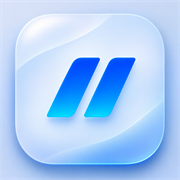
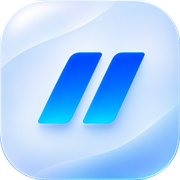
Polish controls, exercise media, library, and onyx theme

diff --git a/app.js b/app.js
@@ -2,11 +2,11 @@
   'use strict';
 
   const STORAGE_KEY = 'train-log-state-v1';
-  const VERSION = '3.8.4';
+  const VERSION = '3.8.5';
   const DB_NAME = 'train-log-indexeddb';
   const DB_VERSION = 1;
   const DB_STORES = ['workouts','exercises','plans','body_metrics','settings','backup_meta'];
-  const THEMES=[['classic','经典蓝','#0B72FE'],['teal','青绿','#018A8D'],['purple','紫色','#7149C2'],['coral','珊瑚橙','#D2653F']];
+  const THEMES=[['classic','经典蓝','#0B72FE'],['teal','青绿','#018A8D'],['purple','紫色','#7149C2'],['coral','珊瑚橙','#D2653F'],['onyx','星耀黑','#171B24']];
 
   const EXERCISES = [
     {id:'bench_press',name:'杠铃卧推',group:'胸',equipment:'杠铃',muscles:['胸','三头','肩'],primary:'胸大肌',secondary:'肱三头肌、三角肌前束',tips:['肩胛骨向后下方收紧并稳定贴住凳面','双脚踩稳地面，保持躯干稳定','杠铃下降至胸部附近后平稳推起，不要弹胸'],mistakes:['肩膀前顶、肩胛失去稳定','手腕过度后折','为了重量牺牲下放控制'],rest:'2–3 分钟'},
@@ -464,11 +464,15 @@
   const modalBody = document.getElementById('modal-body');
   const modalSheet = modal.querySelector('.modal-sheet');
   const toastEl = document.getElementById('toast');
+  document.addEventListener('pointerdown',event=>{
+    if(!event.target.closest('.stats-menu-wrap')){const menu=modalBody.querySelector('#report-metric-menu');if(menu&&!menu.hidden){menu.hidden=true;modalBody.querySelector('#report-metric-trigger')?.setAttribute('aria-expanded','false');}}
+    if(!event.target.closest('.trend-select')){const menu=main.querySelector('.trend-menu');if(menu&&!menu.hidden){menu.hidden=true;main.querySelector('[data-cycle-body-trend]')?.setAttribute('aria-expanded','false');}}
+  });
 
   function uid(){ return (crypto.randomUUID ? crypto.randomUUID() : `${Date.now()}-${Math.random().toString(16).slice(2)}`); }
   function today(){ return new Date().toISOString().slice(0,10); }
   function esc(v=''){ return String(v).replace(/[&<>'"]/g, c => ({'&':'&amp;','<':'&lt;','>':'&gt;',"'":'&#39;','"':'&quot;'}[c])); }
-  function applyTheme(){const theme=THEMES.some(([id])=>id===state.settings?.theme)?state.settings.theme:'classic';document.documentElement.dataset.theme=theme;document.querySelector('meta[name="theme-color"]')?.setAttribute('content',({classic:'#e8f3ff',teal:'#e9f8f5',purple:'#f3effb',coral:'#fff2eb'})[theme]);}
+  function applyTheme(){const theme=THEMES.some(([id])=>id===state.settings?.theme)?state.settings.theme:'classic';document.documentElement.dataset.theme=theme;document.querySelector('meta[name="theme-color"]')?.setAttribute('content',({classic:'#e8f3ff',teal:'#e9f8f5',purple:'#f3effb',coral:'#fff2eb',onyx:'#171b24'})[theme]);}
   function themeSettingsHTML(){return `<section class="section"><div class="card"><div class="section-title">主题颜色</div><div class="theme-grid">${THEMES.map(([id,label,color])=>`<button class="theme-choice ${state.settings.theme===id?'active':''}" data-theme-option="${id}" aria-pressed="${state.settings.theme===id}"><i style="--swatch:${color}"></i><span>${label}</span></button>`).join('')}</div></div></section>`;}
   function clamp(v,min,max){ return Math.max(min,Math.min(max,v)); }
   function num(v){ const n=parseFloat(v); return Number.isFinite(n)?n:null; }
@@ -936,7 +940,7 @@
     if(period==='day'){const blanks=Array.from({length:offset},()=>'<span></span>').join(''),days=Array.from({length:last},(_,i)=>{const key=localDateKey(new Date(year,month,i+1));return `<button type="button" ${available.has(key)?`data-report-choice="${key}"`:'disabled'} class="${key===selected?'active':''}">${i+1}</button>`;}).join('');return `<div class="stats-picker-panel">${controls}${weekdays}<div class="stats-picker-grid days">${blanks}${days}</div></div>`;}
     const firstMonday=startOfWeek(first),weeks=[],trainedDates=new Set(state.workouts.filter(w=>w.endedAt).map(w=>localDateKey(w.endedAt)));for(let i=0;i<6;i++){const monday=new Date(firstMonday);monday.setDate(monday.getDate()+i*7);if(monday>=new Date(year,month+1,1))break;const key=localDateKey(monday),sunday=new Date(monday);sunday.setDate(sunday.getDate()+6);weeks.push(`<button type="button" class="stats-week-option ${key===selected?'active':''}" ${available.has(key)?`data-report-choice="${key}"`:'disabled'}><span>${monday.getMonth()+1}/${monday.getDate()}—${sunday.getMonth()+1}/${sunday.getDate()}</span><span class="stats-week-dots">${Array.from({length:7},(_,d)=>{const date=new Date(monday);date.setDate(date.getDate()+d);return `<i class="${trainedDates.has(localDateKey(date))?'trained':''}"></i>`;}).join('')}</span></button>`);}return `<div class="stats-picker-panel">${controls}${weekdays}<div class="stats-week-list">${weeks.join('')}</div></div>`;
   }
-  function reportBodyHTML(r){const fields=[['height','身高','cm'],['bodyFat','体脂率','%'],['skeletalMuscle','骨骼肌','kg'],['waist','腰围','cm']],all=[...state.bodyMetrics].filter(m=>m.date).sort((a,b)=>new Date(a.date)-new Date(b.date));return `<section class="stats-body-card"><h3>身体变化</h3>${fields.map(([key,label,unit])=>{const before=all.filter(m=>new Date(`${m.date}T12:00:00`)<r.start&&num(m[key])!==null).at(-1),within=all.filter(m=>{const d=new Date(`${m.date}T12:00:00`);return d>=r.start&&d<=r.end&&num(m[key])!==null;}),points=within.length?[...(before?[before]:[]),...within]:[],first=points[0],last=points.at(-1),values=points.map(p=>Number(p[key])),min=Math.min(...values),max=Math.max(...values),spark=values.length>1?`<svg viewBox="0 0 90 28" aria-label="${label}趋势"><polyline points="${values.map((v,i)=>`${3+i*84/(values.length-1)},${24-(v-min)/Math.max(1,max-min)*20}`).join(' ')}"/></svg>`:'',display=last?`${first&&first!==last?`${num(first[key])} → `:''}${num(last[key])} ${unit}`:key==='height'&&num(state.profile.height)!==null?`档案 ${num(state.profile.height)} ${unit}`:'暂无记录';return `<div class="stats-body-row"><div><span>${label}</span><small>${within.length} 次记录</small></div>${spark}<strong>${display}</strong></div>`;}).join('')}</section>`;}
+  function reportBodyHTML(r){const fields=[['weight','体重','kg'],['bodyFat','体脂率','%'],['skeletalMuscle','骨骼肌','kg'],['waist','腰围','cm']],all=[...state.bodyMetrics].filter(m=>m.date).sort((a,b)=>new Date(a.date)-new Date(b.date));return `<section class="stats-body-card"><h3>身体变化</h3>${fields.map(([key,label,unit])=>{const before=all.filter(m=>new Date(`${m.date}T12:00:00`)<r.start&&num(m[key])!==null).at(-1),within=all.filter(m=>{const d=new Date(`${m.date}T12:00:00`);return d>=r.start&&d<=r.end&&num(m[key])!==null;}),points=within.length?[...(before?[before]:[]),...within]:[],first=points[0],last=points.at(-1),values=points.map(p=>Number(p[key])),min=Math.min(...values),max=Math.max(...values),spark=values.length>1?`<svg viewBox="0 0 90 28" aria-label="${label}趋势"><polyline points="${values.map((v,i)=>`${3+i*84/(values.length-1)},${24-(v-min)/Math.max(1,max-min)*20}`).join(' ')}"/></svg>`:'',display=last?`${first&&first!==last?`${num(first[key])} → `:''}${num(last[key])} ${unit}`:key==='height'&&num(state.profile.height)!==null?`档案 ${num(state.profile.height)} ${unit}`:'暂无记录';return `<div class="stats-body-row"><div><span>${label}</span><small>${within.length} 次记录</small></div>${spark}<strong>${display}</strong></div>`;}).join('')}</section>`;}
   function reportPerformanceHTML(r){const prefix={day:'本日',week:'本周',month:'本月',year:'本年'}[r.period],top=r.topExercise?exercise(r.topExercise[0]):null;return `<section class="stats-performance-card"><h3>动作表现</h3><div class="stats-performance-top"><span>${prefix}训练最多</span>${top?`<div class="stats-performance-thumb">${exerciseVisual(top)}</div><strong>${esc(top.name)} ${r.topExercise[1]} 次</strong>`:'<strong>暂无训练</strong>'}</div><div class="stats-performance-subtitle">${prefix}进步训练</div>${r.progress.length?r.progress.map(x=>`<div class="stats-performance-row"><div class="stats-performance-thumb">${exerciseVisual(exercise(x.id))}</div><div><strong>${esc(x.name)}</strong><small>${x.from} → ${x.to} kg</small></div><b>+${x.pct}%</b></div>`).join(''):'<div class="report-empty">当前周期还没有可比较的力量进步</div>'}<div class="stats-record-title"><span>新纪录</span><strong>${r.records.length} 项</strong></div>${r.records.slice(0,4).map(x=>`<div class="stats-performance-row"><div class="stats-performance-thumb">${exerciseVisual(exercise(x.id))}</div><div><strong>${esc(x.name)}</strong><small>${x.before?`${x.before} → `:''}${x.inside} kg</small></div><b>新高</b></div>`).join('')}</section>`;}
   let reportMappingsPromise=null;
   async function renderStatsMuscles(r,host){if(!host)return;if(!r.history.length){host.innerHTML='<div class="report-empty">该周期暂无训练，暂不能生成肌群分布</div>';return;}try{
@@ -978,6 +982,8 @@
   }
 
   function renderActiveWorkout(){
+    const retained=new Map([...main.querySelectorAll('.training-exercise')].map(section=>[`${section.dataset.exIndex}:${section.querySelector('img.gym-gif')?.dataset.gymId}`,section.querySelector('img.gym-gif')]).filter(([,img])=>img));
+    retained.forEach(img=>{gymVisibilityObserver?.unobserve(img);if(img._gymSuspendTimer){clearTimeout(img._gymSuspendTimer);img._gymSuspendTimer=null;}});
     const w=state.activeWorkout; const elapsed=Date.now()-new Date(w.startedAt).getTime();
     main.innerHTML=`
       <div class="workout-head">
@@ -988,7 +994,9 @@
       <button class="primary-btn" id="finish-workout-btn">完成训练</button>
       ${restRemaining>0?timerHTML():''}
     `;
+    main.querySelectorAll('.training-exercise').forEach(section=>{const fresh=section.querySelector('img.gym-gif'),old=fresh&&retained.get(`${section.dataset.exIndex}:${fresh.dataset.gymId}`);if(!old)return;fresh.replaceWith(old);const shell=old.closest('.gym-media-shell');if(old.complete&&old.naturalWidth)shell?.classList.add('loaded');if(old.dataset.hydrated)gymVisibilityObserver?.observe(old);});
     bindActiveWorkout();
+    requestAnimationFrame(()=>hydrateGymVisuals(main));
     clearInterval(timerInterval); timerInterval=setInterval(()=>{ const el=document.getElementById('elapsed'); if(el)el.textContent=durationText(Date.now()-new Date(w.startedAt).getTime()); },30000);
   }
 
@@ -1149,14 +1157,15 @@
   function exerciseLibraryHTML(searchQuery=''){
     const q=searchQuery.trim().toLowerCase();
     const list=allExercises().filter(e=>(activeExerciseFilter==='全部'||e.group===activeExerciseFilter)&&e.name.toLowerCase().includes(q));
-    return `<div class="section"><div id="exercise-list" class="list">${list.map(exerciseListItem).join('')||'<div class="empty">没有找到这个动作</div>'}</div></div>`;
+    return `<div class="section"><div id="exercise-list" class="list">${groupedExerciseLibraryHTML(list)}</div></div>`;
   }
+  function groupedExerciseLibraryHTML(list){if(!list.length)return '<div class="empty">没有找到这个动作</div>';return EXERCISE_GROUPS.filter(g=>g!=='全部').map(g=>{const items=list.filter(e=>e.group===g);return items.length?`<div class="exercise-group-heading">${g==='胸'?'胸部':g==='背'?'背部':g==='肩'?'肩部':g==='腿'?'腿部':g==='臀'?'臀部':g==='腹'?'腹部':g==='二头'?'肱二头':g==='三头'?'肱三头':g} · ${items.length} 个动作</div>${items.map(exerciseListItem).join('')}`:'';}).join('');}
   function exerciseListItem(e){ return `<button class="list-item tutorial-card" style="width:100%;text-align:left" data-tutorial="${e.id}"><div class="muscle-icon visual">${exerciseVisual(e)}</div><div class="grow"><strong>${esc(e.name)}</strong><p>${esc(e.primary)} · ${esc(e.equipment)}${e.type==='cardio'?' · min':''}</p></div><span class="pill blue">讲解</span></button>`; }
   function bindExerciseLibrary(){
     document.querySelectorAll('[data-filter]').forEach(b=>b.onclick=e=>{e.preventDefault();e.stopPropagation();const chipScrollLeft=b.parentElement.scrollLeft;const searchQuery=document.getElementById('exercise-search')?.value||'';activeExerciseFilter=b.dataset.filter;renderExercisesPage(chipScrollLeft,searchQuery);});
     document.querySelectorAll('[data-tutorial]').forEach(b=>b.onclick=()=>showTutorial(b.dataset.tutorial));
     const list=document.getElementById('exercise-list');hydrateGymVisuals(list);
-    const s=document.getElementById('exercise-search'); if(s)s.oninput=()=>{ const q=s.value.trim().toLowerCase(); list.innerHTML=allExercises().filter(e=>(activeExerciseFilter==='全部'||e.group===activeExerciseFilter)&&e.name.toLowerCase().includes(q)).map(exerciseListItem).join('')||'<div class="empty">没有找到这个动作</div>'; document.querySelectorAll('[data-tutorial]').forEach(b=>b.onclick=()=>showTutorial(b.dataset.tutorial)); hydrateGymVisuals(list); };
+    const s=document.getElementById('exercise-search'); if(s)s.oninput=()=>{ const q=s.value.trim().toLowerCase(); list.innerHTML=groupedExerciseLibraryHTML(allExercises().filter(e=>(activeExerciseFilter==='全部'||e.group===activeExerciseFilter)&&e.name.toLowerCase().includes(q))); document.querySelectorAll('[data-tutorial]').forEach(b=>b.onclick=()=>showTutorial(b.dataset.tutorial)); hydrateGymVisuals(list); };
   }
 
   function bindCommon(){
@@ -1606,11 +1615,11 @@
 
   function showBodyForm(id=null){
     const current=id?state.bodyMetrics.find(x=>x.id===id):null,value=(key)=>esc(current?.[key]??'');
-    openModal(current?'编辑身体记录':'记录身体数据',`<div class="form-grid"><div class="field full"><label>日期</label><input id="body-date" type="date" value="${current?.date||localDateKey()}"></div><div class="field"><label>体重 kg</label><input id="body-weight" type="number" inputmode="decimal" min="20" max="300" step="0.1" value="${value('weight')}"></div><div class="field"><label>体脂率 %</label><input id="body-fat" type="number" inputmode="decimal" min="1" max="70" step="0.1" value="${value('bodyFat')}"></div><div class="field"><label>身高 cm（可选）</label><input id="body-height" type="number" inputmode="decimal" min="100" max="230" step="0.1" value="${value('height')}"></div><div class="field"><label>腰围 cm</label><input id="body-waist" type="number" inputmode="decimal" min="30" max="250" step="0.1" value="${value('waist')}"></div><div class="field"><label>骨骼肌 kg</label><input id="body-muscle" type="number" inputmode="decimal" min="5" max="100" step="0.1" value="${value('skeletalMuscle')}"></div></div><div class="body-form-actions"><button class="primary-btn" id="save-body">保存记录</button>${current?'<button class="secondary-btn danger" id="delete-body">删除记录</button>':''}</div>`);
+    openModal(current?'编辑身体记录':'记录身体数据',`<div class="form-grid"><div class="field full"><label>日期</label><input id="body-date" type="date" value="${current?.date||localDateKey()}"></div><div class="field"><label>体重 kg</label><input id="body-weight" type="number" inputmode="decimal" min="20" max="300" step="0.1" value="${value('weight')}"></div><div class="field"><label>体脂率 %</label><input id="body-fat" type="number" inputmode="decimal" min="1" max="70" step="0.1" value="${value('bodyFat')}"></div><div class="field"><label>腰围 cm</label><input id="body-waist" type="number" inputmode="decimal" min="30" max="250" step="0.1" value="${value('waist')}"></div><div class="field"><label>骨骼肌 kg</label><input id="body-muscle" type="number" inputmode="decimal" min="5" max="100" step="0.1" value="${value('skeletalMuscle')}"></div></div><div class="body-form-actions"><button class="primary-btn" id="save-body">保存记录</button>${current?'<button class="secondary-btn danger" id="delete-body">删除记录</button>':''}</div>`);
     document.getElementById('save-body').onclick=()=>{
-      const date=document.getElementById('body-date').value||localDateKey(),weight=num(document.getElementById('body-weight').value),bodyFat=num(document.getElementById('body-fat').value),height=num(document.getElementById('body-height').value),waist=num(document.getElementById('body-waist').value),skeletalMuscle=num(document.getElementById('body-muscle').value);
-      if(weight===null&&bodyFat===null&&height===null&&waist===null&&skeletalMuscle===null){toast('至少填写一项身体数据');return;}
-      const row={...(current||{}),id:current?.id||uid(),date,weight,bodyFat,height,waist,skeletalMuscle};
+      const date=document.getElementById('body-date').value||localDateKey(),weight=num(document.getElementById('body-weight').value),bodyFat=num(document.getElementById('body-fat').value),waist=num(document.getElementById('body-waist').value),skeletalMuscle=num(document.getElementById('body-muscle').value);
+      if(weight===null&&bodyFat===null&&waist===null&&skeletalMuscle===null){toast('至少填写一项身体数据');return;}
+      const row={...(current||{}),id:current?.id||uid(),date,weight,bodyFat,waist,skeletalMuscle};
       state.bodyMetrics=current?state.bodyMetrics.map(x=>x.id===current.id?row:x):[...state.bodyMetrics,row];
       saveState();closeModal();render();toast(current?'身体记录已更新':'身体数据已记录');
     };

diff --git a/ui2.css b/ui2.css
@@ -286,3 +286,35 @@ body{background:
 .stats-performance-top,.stats-performance-row,.stats-record-title,.stats-body-row{display:flex;align-items:center;gap:10px;padding:11px 0;border-bottom:1px solid #e8edf6}.stats-performance-top>span{color:#73829a;font-size:12px}.stats-performance-top strong{margin-left:auto;text-align:right;font-size:13px}.stats-performance-thumb{width:43px;height:43px;flex:none;border-radius:10px;background:#fff;overflow:hidden}.stats-performance-thumb .gym-media-shell,.stats-performance-thumb .gym-gif{width:100%;height:100%}.stats-performance-subtitle{margin-top:15px;font-size:14px;font-weight:800}.stats-performance-row>div:nth-child(2){min-width:0;flex:1}.stats-performance-row strong,.stats-performance-row small{display:block;overflow:hidden;text-overflow:ellipsis;white-space:nowrap}.stats-performance-row strong{font-size:13px}.stats-performance-row small{margin-top:3px;color:#8190a5;font-size:11px}.stats-performance-row>b{color:#19a071;font-size:12px;white-space:nowrap}.stats-record-title{justify-content:space-between;margin-top:12px;font-size:14px;font-weight:750}.stats-record-title strong{color:var(--theme-primary);font-size:19px}.stats-body-row{justify-content:space-between}.stats-body-row:last-child{border-bottom:0}.stats-body-row>div{min-width:0;flex:1}.stats-body-row span,.stats-body-row small{display:block}.stats-body-row span{font-size:13px}.stats-body-row small{margin-top:3px;color:#8b98aa;font-size:10px}.stats-body-row strong{max-width:45%;font-size:12px;text-align:right;overflow-wrap:anywhere}.stats-body-row svg{width:70px;height:25px}.stats-body-row polyline{fill:none;stroke:var(--theme-primary);stroke-width:2}.stats-footnote{margin:0 9px;color:#7485a0;font-size:11px;line-height:1.5}
 @media(max-width:380px){.stats-tile{padding:11px}.stats-tile strong{font-size:19px}.stats-chart-legend strong{font-size:19px}.stats-title h1{font-size:25px}.stats-trend-card,.stats-muscle-card,.stats-performance-card,.stats-body-card{padding:14px}}
 @media(max-width:390px){.report-heading h1{font-size:24px}.workout-summary-card h2{font-size:12px;padding:6px 8px}.report-stat{font-size:11px}.report-stat strong{font-size:12px}}
+/* Consistent geometric chevrons avoid the low baseline of font glyphs on iOS. */
+.record-month-trigger i,.stats-menu-trigger>span,.trend-title>span,#report-picker-trigger>span:last-child{display:inline-block!important;width:7px!important;height:7px!important;min-width:7px;margin:0 2px 4px 2px!important;border-right:2px solid currentColor;border-bottom:2px solid currentColor;font-size:0!important;line-height:0!important;transform:rotate(45deg);vertical-align:middle;align-self:center}
+.record-month-trigger[aria-expanded="true"] i,#report-picker-trigger[aria-expanded="true"]>span:last-child{margin-top:7px!important;margin-bottom:0!important;transform:rotate(225deg)}
+.record-month-trigger,.stats-menu-trigger,.trend-title,#report-picker-trigger{align-items:center!important}
+.exercise-group-heading{padding:13px 4px 5px;color:var(--muted);font-size:14px;font-weight:750}.exercise-group-heading:first-child{padding-top:0}
+.theme-grid{grid-template-columns:repeat(3,minmax(0,1fr))}
+:root[data-theme="onyx"]{--bg:#11151d;--card:#202632;--text:#f2f4f8;--muted:#a2adbf;--line:#384354;--blue:#c7a96f;--blue-soft:#333124;--accent-surface:#222b37;--accent-surface-2:#26313e;--accent-surface-3:#303d4b;--accent-surface-4:#1d2632;--accent-surface-5:#202936;--accent-dark:#b99455;--accent-light:#ead49f;--shadow:0 10px 30px rgba(0,0,0,.23);--theme-primary:#d6b777;--theme-primary-strong:#b99455;--theme-primary-bright:#f2daa5;--theme-primary-soft:#343226;--theme-primary-border:#665a3f;--theme-primary-text:#ead49f;--theme-gradient-start:#a88140;--theme-gradient-end:#d5b77b;--theme-dark-start:#10141d;--theme-dark-end:#273447;--theme-chart-line:#d6b777;--theme-progress-fill:#d6b777;--theme-focus-ring:rgba(214,183,119,.2);--theme-canvas-tint:#27394f;--theme-canvas-tint-2:#161e29}
+:root[data-theme="onyx"] html,:root[data-theme="onyx"] body{background:#11151d;color:var(--text)}
+:root[data-theme="onyx"] body{background:radial-gradient(ellipse 90% 360px at 95% 0%,#2a3a4c,transparent),linear-gradient(180deg,#161e29 0,#11151d 440px)}
+:root[data-theme="onyx"] .topbar,:root[data-theme="onyx"] .page-intro{background-image:radial-gradient(ellipse 320px 300px at calc(50% + 285px) 190px,#293d52 0%,#182331 99.5%,transparent 100%),linear-gradient(180deg,#182331 0%,#161e29 440px,#11151d 100%);background-color:#161e29}
+:root[data-theme="onyx"] .topbar-title,:root[data-theme="onyx"] .page-intro .page-title,:root[data-theme="onyx"] .section-title,:root[data-theme="onyx"] .stats-report h3{color:#f4f5f8}
+:root[data-theme="onyx"] .topbar-subtitle,:root[data-theme="onyx"] .page-intro .page-subtitle{color:#adbacb}
+:root[data-theme="onyx"] .card,:root[data-theme="onyx"] .list-item,:root[data-theme="onyx"] .training-exercise,:root[data-theme="onyx"] .stats-tile,:root[data-theme="onyx"] .stats-trend-card,:root[data-theme="onyx"] .stats-muscle-card,:root[data-theme="onyx"] .stats-performance-card,:root[data-theme="onyx"] .stats-body-card{background:#202937;border-color:#394655;color:#f1f4f9}
+:root[data-theme="onyx"] .metric-card strong,:root[data-theme="onyx"] .stats-tile strong,:root[data-theme="onyx"] .list-item strong{color:#f5f6fa}
+:root[data-theme="onyx"] .metric-card small,:root[data-theme="onyx"] .list-item small,:root[data-theme="onyx"] .list-item p{color:#abb8c9}
+:root[data-theme="onyx"] .bottom-nav,:root[data-theme="onyx"] .modal-sheet{background:#171e28;border-color:#344052;color:#f1f4f9}
+:root[data-theme="onyx"] .bottom-nav button,:root[data-theme="onyx"] .chip,:root[data-theme="onyx"] .tab{color:#b5c0ce}
+:root[data-theme="onyx"] .bottom-nav button.active,:root[data-theme="onyx"] .chip.active{color:#1b1c20}
+:root[data-theme="onyx"] .chip,:root[data-theme="onyx"] .record-month-trigger,:root[data-theme="onyx"] .record-stats-btn,:root[data-theme="onyx"] .search input,:root[data-theme="onyx"] .field input,:root[data-theme="onyx"] .set-input{background:#273241;border-color:#425064;color:#eff2f7}
+:root[data-theme="onyx"] .stats-report{background:linear-gradient(160deg,#1b2837,#151d28);color:#f1f4f9}
+:root[data-theme="onyx"] .stats-report .report-period-picker button,:root[data-theme="onyx"] .stats-picker-panel,:root[data-theme="onyx"] .stats-menu{background:#273241;border-color:#425064;color:#eef2f8}
+:root[data-theme="onyx"] .stats-menu button,:root[data-theme="onyx"] .stats-picker-panel strong{color:#eef2f8}
+:root[data-theme="onyx"] .stats-muscle-groups>div{background:#2b3543}
+:root[data-theme="onyx"] .theme-choice{background:#273241;border-color:#425064;color:#c4cdd9}
+:root[data-theme="onyx"] .theme-choice.active{background:#343226;color:#ead49f}
+:root[data-theme="onyx"] .topbar .brand,:root[data-theme="onyx"] .stat-row strong,:root[data-theme="onyx"] .record-month-heading strong,:root[data-theme="onyx"] .workout-title,:root[data-theme="onyx"] .trend-title,:root[data-theme="onyx"] .stats-title h1{color:#f4f6fa}
+:root[data-theme="onyx"] .stat-row span,:root[data-theme="onyx"] .stats-tile-label,:root[data-theme="onyx"] .stats-body-row small{color:#afbdce}
+:root[data-theme="onyx"] .tab.active,:root[data-theme="onyx"] .mine-tabs .tab.active{background:#344153;color:#f0d49b}
+:root[data-theme="onyx"] .theme-choice.active span{color:#f0d49b}
+:root[data-theme="onyx"] .stats-tile strong small,:root[data-theme="onyx"] .stats-chart-legend>div+div strong,:root[data-theme="onyx"] .stats-performance-top>span{color:#bec8d7}
+:root[data-theme="onyx"] .next-card strong,:root[data-theme="onyx"] .plan-card strong,:root[data-theme="onyx"] .tutorial-card strong,:root[data-theme="onyx"] .training-exercise-head strong{color:#f4f6fa}
+:root[data-theme="onyx"] .bottom-nav button.active{color:#f0d49b}

diff --git a/sw.js b/sw.js
@@ -1,8 +1,8 @@
-const APP_CACHE='train-log-v384-local';
+const APP_CACHE='train-log-v385-local';
 // Keep the existing media cache across app releases so cached GIFs do not
 // flash blank or download again after every deployment.
 const MEDIA_CACHE='train-log-media-v31';
-const ASSETS=['./','./index.html','./styles.css?v=3.6.2','./ui2.css?v=3.8.4','./new-videos.js?v=3.6.2','./advanced-videos.js?v=3.6.2','./new-content.js?v=3.6.2','./advanced-content.js?v=3.6.2','./muscle-map.js?v=3.8.3','./history-report.js?v=3.8.3','./app.js?v=3.8.4','./exercise-muscle-mappings.json?v=3.6.2','./assets/标准人体.svg?v=4','./assets/report-icons/02-calendar.svg','./assets/report-icons/03-overview-bars.svg','./assets/report-icons/04-muscle-target.svg','./assets/report-icons/training-content.png','./assets/report-icons/09-layer-stack-small.svg','./manifest.webmanifest?v=3.7.2','./assets/icon-ui2-180.png','./assets/icon-ui2-192.png','./assets/icon-ui2-512.png'];
+const ASSETS=['./','./index.html','./styles.css?v=3.6.2','./ui2.css?v=3.8.5','./new-videos.js?v=3.6.2','./advanced-videos.js?v=3.6.2','./new-content.js?v=3.6.2','./advanced-content.js?v=3.6.2','./muscle-map.js?v=3.8.3','./history-report.js?v=3.8.3','./app.js?v=3.8.5','./exercise-muscle-mappings.json?v=3.6.2','./assets/标准人体.svg?v=4','./assets/report-icons/02-calendar.svg','./assets/report-icons/03-overview-bars.svg','./assets/report-icons/04-muscle-target.svg','./assets/report-icons/training-content.png','./assets/report-icons/09-layer-stack-small.svg','./manifest.webmanifest?v=3.8.5','./assets/icon-ui2-180.png','./assets/icon-ui2-192.png','./assets/icon-ui2-512.png'];
 self.addEventListener('install',e=>e.waitUntil(caches.open(APP_CACHE).then(c=>c.addAll(ASSETS)).then(()=>self.skipWaiting())));
 self.addEventListener('activate',e=>e.waitUntil(caches.keys().then(keys=>Promise.all(keys.filter(k=>![APP_CACHE,MEDIA_CACHE].includes(k)).map(k=>caches.delete(k)))).then(()=>self.clients.claim())));
 self.addEventListener('fetch',event=>{

diff --git a/index.html b/index.html
@@ -12,11 +12,11 @@
   <link rel="preconnect" href="https://cdn.jsdelivr.net" crossorigin />
   <link rel="preconnect" href="https://i0.hdslb.com" crossorigin />
   <link rel="preconnect" href="https://player.bilibili.com" crossorigin />
-  <link rel="manifest" href="./manifest.webmanifest?v=3.7.2" />
-  <link rel="apple-touch-icon" sizes="180x180" href="./assets/icon-ui2-180.png" />
-  <link rel="icon" href="./assets/icon-ui2-192.png" />
+  <link rel="manifest" href="./manifest.webmanifest?v=3.8.5" />
+  <link rel="apple-touch-icon" sizes="180x180" href="./assets/icon-ui2-180.png?v=3.8.5" />
+  <link rel="icon" href="./assets/icon-ui2-192.png?v=3.8.5" />
   <link rel="stylesheet" href="./styles.css?v=3.6.2" />
-  <link rel="stylesheet" href="./ui2.css?v=3.8.4" />
+  <link rel="stylesheet" href="./ui2.css?v=3.8.5" />
 </head>
 <body>
   <div id="app" class="app-shell">
@@ -56,6 +56,6 @@
   <script src="./advanced-content.js?v=3.6.2" defer></script>
   <script src="./muscle-map.js?v=3.8.3" defer></script>
   <script src="./history-report.js?v=3.8.3" defer></script>
-  <script src="./app.js?v=3.8.4" defer></script>
+  <script src="./app.js?v=3.8.5" defer></script>
 </body>
 </html>
